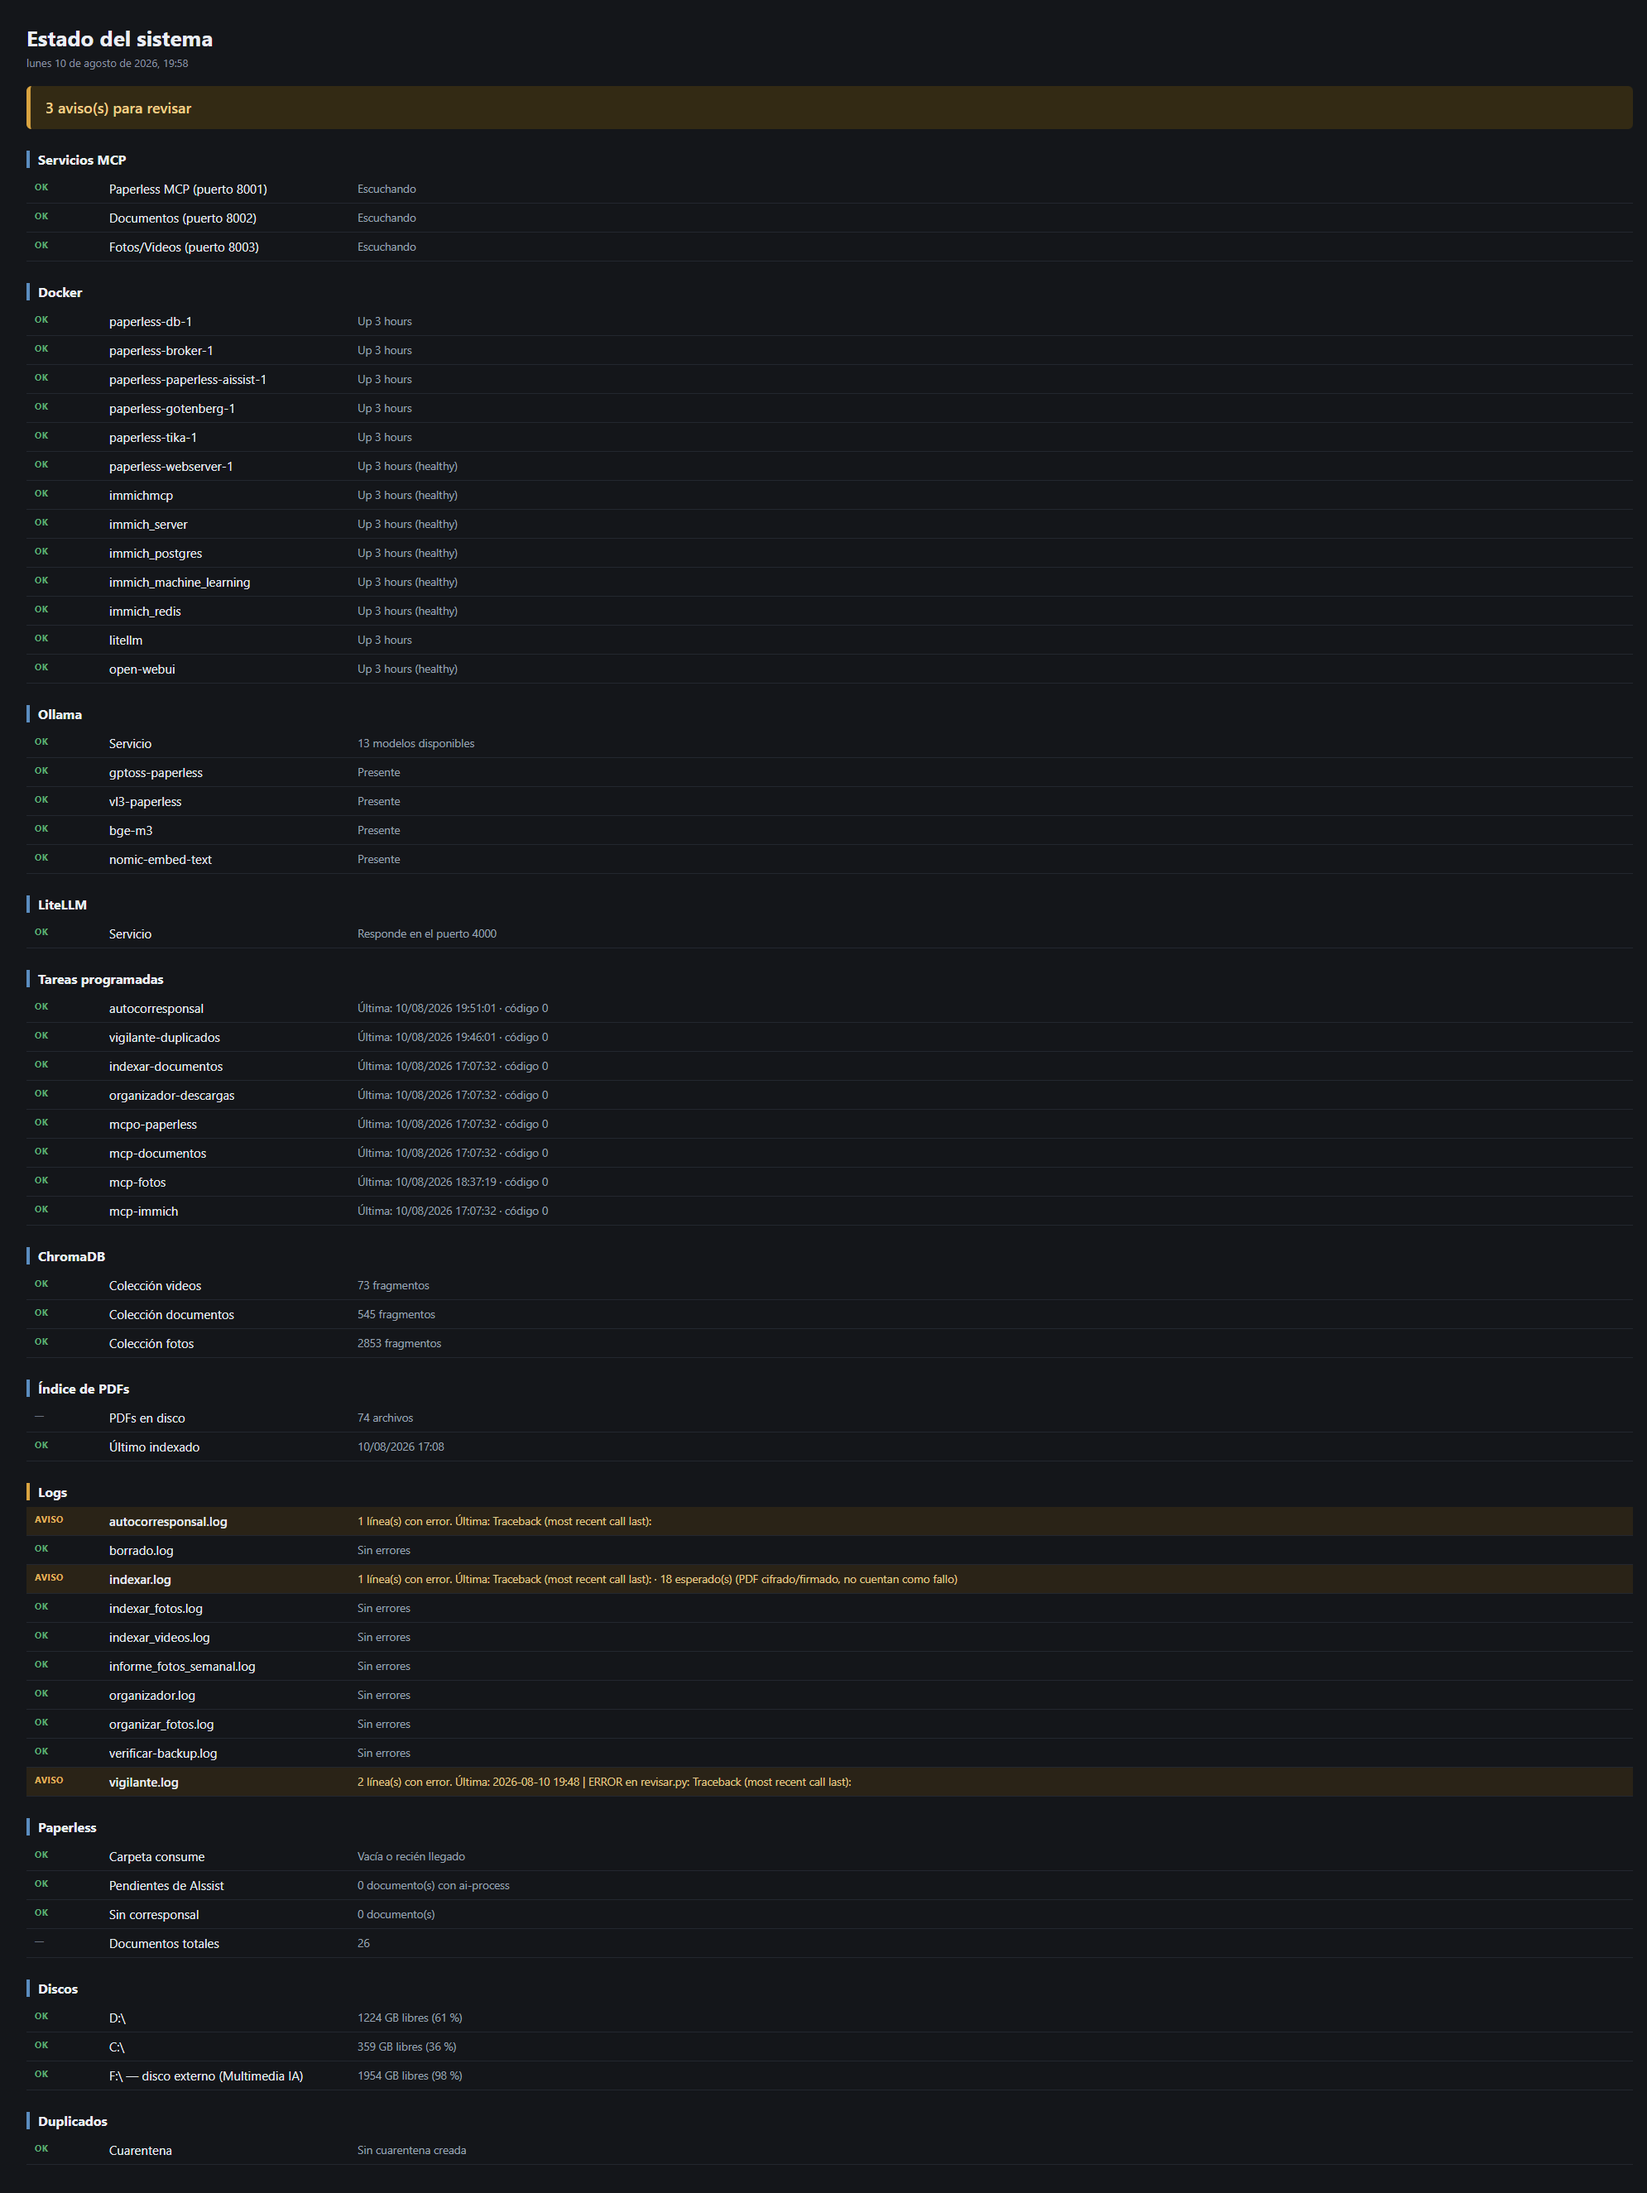
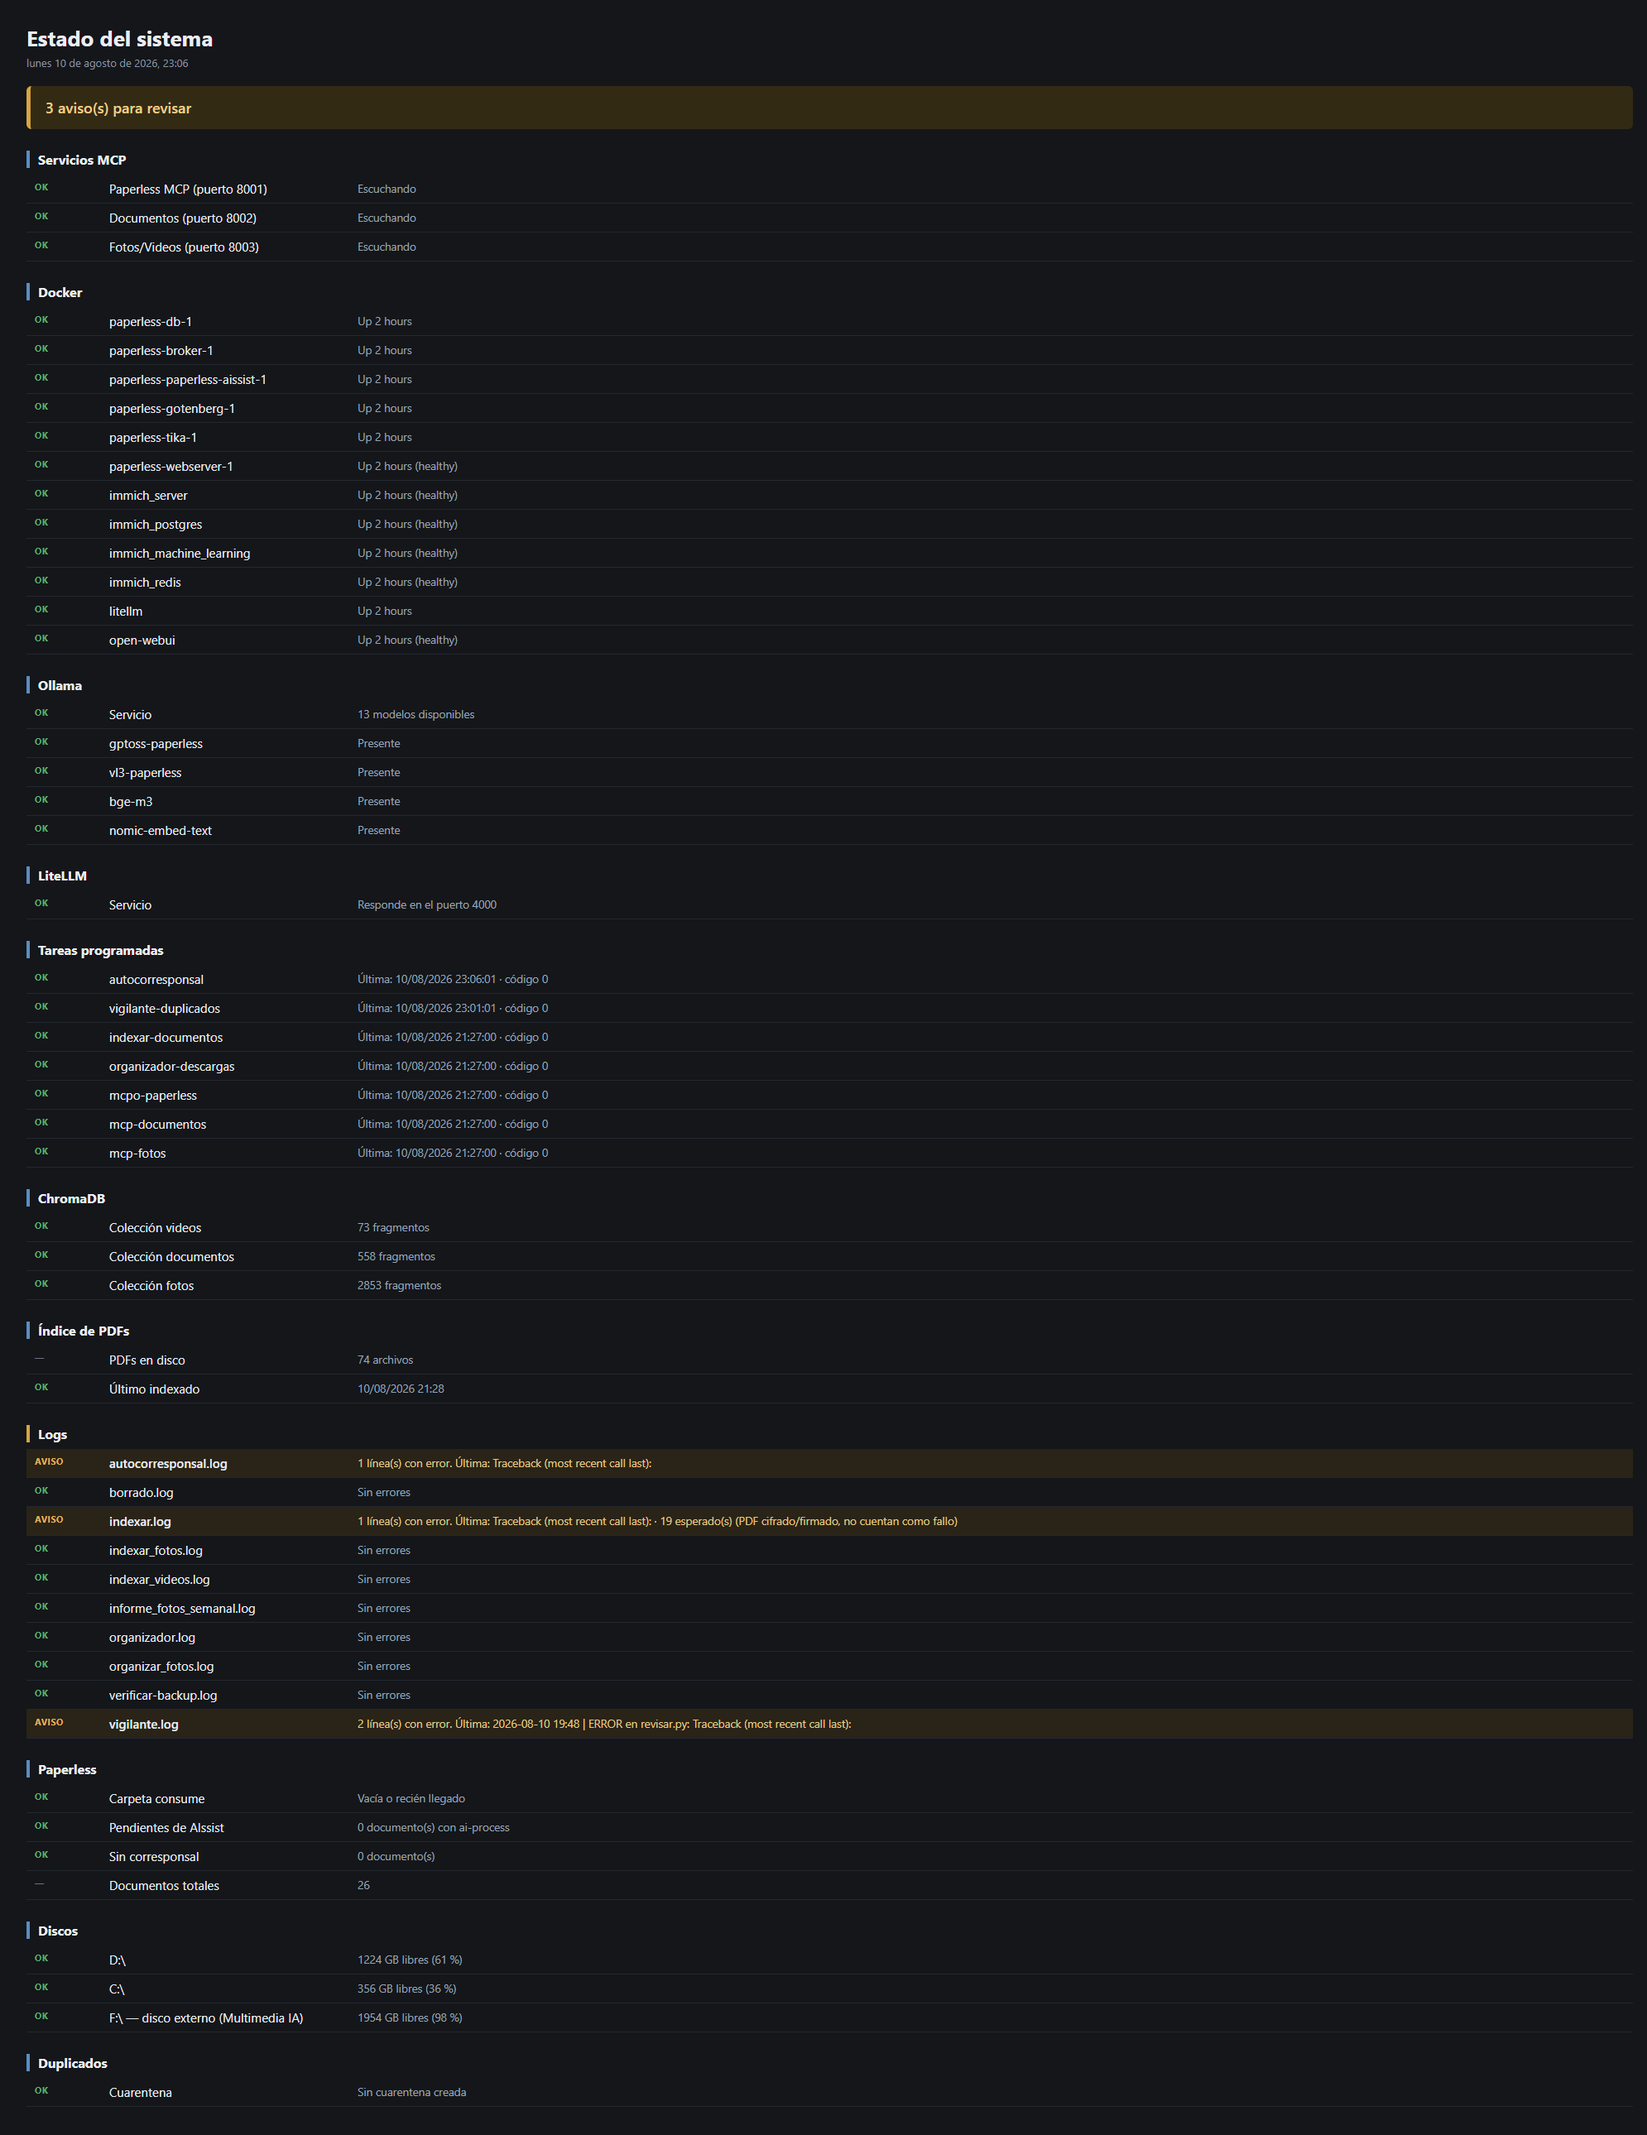
fix: salud.py sin ImmichMCP y captura de salud.html actualizada

diff --git a/scripts/salud.py b/scripts/salud.py
@@ -19,7 +19,7 @@ PUERTOS = {8001: "Paperless MCP", 8002: "Documentos", 8003: "Fotos/Videos"}
 CONTENEDORES = ["paperless", "immich", "litellm", "open-webui", "openwebui"]
 MODELOS = ["gptoss-paperless", "vl3-paperless", "bge-m3", "nomic-embed-text"]
 TAREAS = ["autocorresponsal", "vigilante-duplicados", "indexar-documentos",
-          "organizador-descargas", "mcpo-paperless", "mcp-documentos", "mcp-fotos", "mcp-immich"]
+          "organizador-descargas", "mcpo-paperless", "mcp-documentos", "mcp-fotos"]
 PATRONES_ESPERADOS = ("decrypted", "encrypted", "cifrad", "encriptad", "signature", "firma digital")
 
 # Fecha en español si el sistema tiene ese locale disponible; si no, formato numérico.
